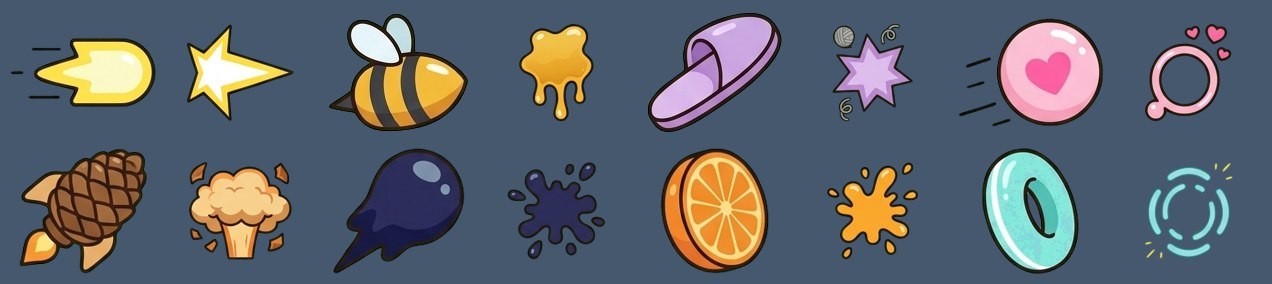
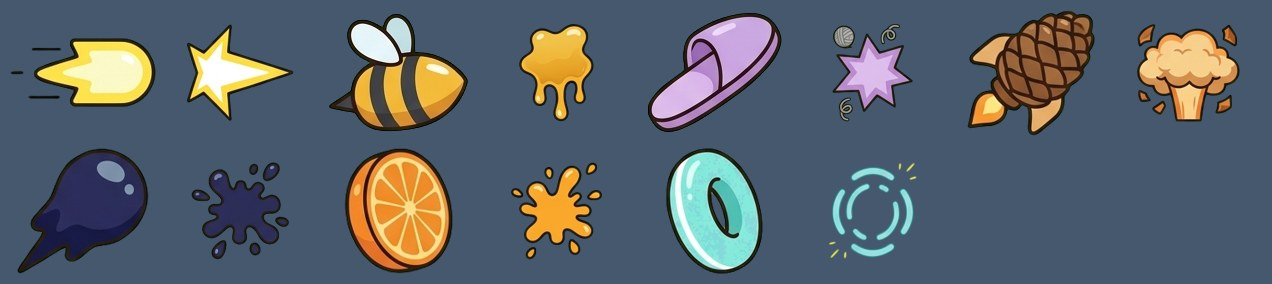
Remove Axo (to be replaced by Mossy)
Claude-Session: https://claude.ai/code/session_01EhkagRdaEkRKXUjDzP8ARK

diff --git a/README.md b/README.md
@@ -24,7 +24,6 @@ Art assets for the brawler game.
 | Honey | beekeeper | long-range bees |
 | Nana | grandma with a slipper | medium-range thrower |
 | Capy | capybara | calm tank |
-| Axo | axolotl | healer |
 | Pango | pangolin | armored roller |
 | Bill | shoebill | stare stun |
 | Tardi | tardigrade | tank |
@@ -58,7 +57,6 @@ Every brawler has its own weapon, skinned in its own colors: 8 guns and 3 melee 
 | Nana | Slipper Launcher | slipper | mid range, small splash |
 | Dough | Rolling-Pin Bat | melee swing | melee, big hits, knockback |
 | Capy | Citrus Minigun | orange slices | heavy, spin-up, slow walk |
-| Axo | Bubble Blaster | heart bubble | support, heals teammates |
 
 ![All weapons](weapons/_overview.jpg)
 
@@ -82,8 +80,8 @@ their swing arcs are `effects/weapons/<name>_swing.png`.
 | `movement/` | `walk_dust`, `run_dust`, `landing_puff`, `speed_lines` |
 | `hit/` | `hit_spark`, `impact_burst`, `slash_arc`, `critical_hit` |
 | `defeat/` | `smoke_poof`, `star_pop`, `soul_wisp`, `sparkle_ring` |
-| `attacks/` | `beam_light`, `dough_flour`, `soot_cloud`, `honey_bees`, `nana_slipper`, `capy_bonk`, `axo_heart`, `pango_dust`, `bill_shockwave`, `tardi_bubble`, `octo_ink` |
-| `support/` | `heal_sparkles`, `shield_up`, `spawn_poof`, `level_up` |
+| `attacks/` | `beam_light`, `dough_flour`, `soot_cloud`, `honey_bees`, `nana_slipper`, `capy_bonk`, `pango_dust`, `bill_shockwave`, `tardi_bubble`, `octo_ink` |
+| `support/` | `heal_sparkles`, `heal_heart`, `shield_up`, `spawn_poof`, `level_up` |
 | `weapons/` | `<brawler>_hit` for all 11 weapons (3 frames: small, full, fading), `<name>_swing` arcs for the 3 melee weapons |
 | `spawn/` | `spawn_poof_white`, `spawn_poof_blue` (blue team), `spawn_poof_red` (red team), `spawn_poof_dust` (unit lands on the ground) |
 

diff --git a/HANDOFF.md b/HANDOFF.md
@@ -12,9 +12,9 @@ This repo (`zqh7y/Game_Assets2`, branch `main`) holds the art. Push finished wor
 
 ## What already exists (all done, don't redo)
 
-- `brawlers/` - reference art for Beam, Dough, Soot, Honey, Nana, Capy, Axo, Pango,
+- `brawlers/` - reference art for Beam, Dough, Soot, Honey, Nana, Capy, Pango,
   Bill, Tardi, Octo.
-  Peep, Dragon and Spooky (Artem's older originals) were removed from the repo on Artem's request (Nov 24) - don't add them back.
+  Peep, Dragon and Spooky (Artem's older originals) and Axo were removed from the repo on Artem's request (Nov 24) - don't add them back.
 - `cards/` - `<Name>_card.png` for all 11: transparent, arch-shaped gold-rim pick card
   with a name ribbon and a count badge.
 - `animations/<Name>/` - for all 11: `<Name>_sheet_right.png` and `_sheet_left.png`
@@ -71,7 +71,6 @@ This repo (`zqh7y/Game_Assets2`, branch `main`) holds the art. Push finished wor
 | Honey | beekeeper | long-range bees | `honey_bees` |
 | Nana | grandma with a slipper | thrower | `nana_slipper` |
 | Capy | capybara | calm tank | `capy_bonk` |
-| Axo | axolotl | healer | `axo_heart` |
 | Pango | pangolin | armored roller | `pango_dust` |
 | Bill | shoebill | stare stun | `bill_shockwave` |
 | Tardi | tardigrade | tank | `tardi_bubble` |
